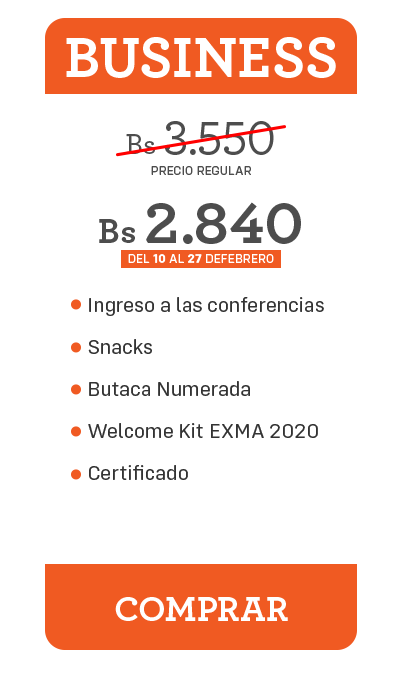
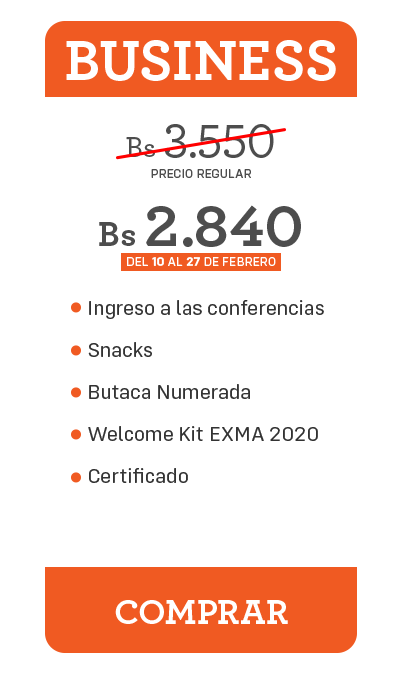
correcciones de textos y acomodar el timer

diff --git a/index.html b/index.html
@@ -163,7 +163,7 @@
             <div class="row row-cols-4">
               <div class="col" style="text-align: center;">
                 <h3 id="dias">12</h3>
-                <label>DIAS</label>
+                <label>DÍAS</label>
               </div>
               <div class="col" style="text-align: center;">
                 <h3 id="horas">12</h3>
@@ -193,7 +193,7 @@
               <div class="containerContentRobot">
                 <img data-aos="flip-left" style="width: 100%" src="img/logoExmaNormal.png">
                 <p data-aos="flip-up"  v-html="this.data.aboutExma"></p>
-                <a data-aos="zoom-in" class="btnBrochure" target="_blank"  href="https://www.facebook.com/EXMABolivia/">{{this.data.btnAboutExma}}</a>
+                <a data-aos="zoom-in" class="btnExma" target="_blank"  href="https://www.facebook.com/EXMABolivia/">{{this.data.btnAboutExma}}</a>
               </div>
               
             </div>

diff --git a/css/exma.css b/css/exma.css
@@ -867,6 +867,21 @@
     color: white !important;
 }
 
+.btnExma {
+    border-color: white;
+    border-style: solid;
+    border-width: 2px;
+    color: white;
+    padding: 5px;
+    font-size: 22px;
+    margin: 10px;
+    position: relative;
+    top: 30px;
+    font-family: 'Config Rounded';
+    font-weight: normal;
+    font-style: normal;
+}
+
 
 
 
@@ -889,11 +904,14 @@
         position: absolute;
         right: 0;
         left: 0;
-        bottom: 130px;
+        bottom: 80px;
         z-index: 1;
         padding: 5px;
 
     }
+    .logoBanner img {
+        width: 600px;
+    }       
 }
 
 /*
